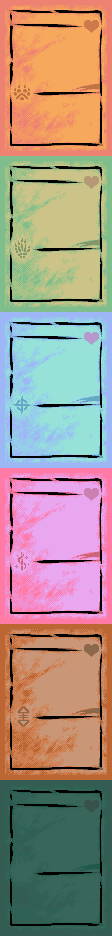
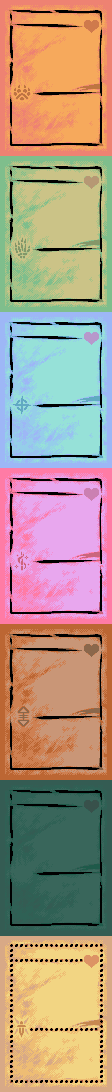
Terrain Part 1

diff --git a/model/costs.py b/model/costs.py
@@ -13,20 +13,42 @@ def get_temple_variant(image, temple):
     bottom = (version_index + 1) * version_height
     return image.crop((0, top, width, bottom))
 
-def change_cost_color(image, temple):
+def change_cost_color(image, temple, tier=""):
     if temple not in TEMPLES:
         raise ValueError(f"'{temple}' is not a valid temple.")
     for x in range(image.width):
         for y in range(image.height):
-            current_pixel = image.getpixel((x, y))[:3]
-            if current_pixel == (190, 117, 65):
-                image.putpixel((x, y), config["light_tone"][temple])
-            elif current_pixel == (125, 78, 48):
-                image.putpixel((x, y), config["text_colors"][temple])
-            elif current_pixel == (78, 50, 38):
-                image.putpixel((x, y), config["dark_tone"][temple])
-            elif current_pixel == (64, 42, 33):
-                image.putpixel((x, y), config["darker_tone"][temple])
+            if [temple] == "Terrain":
+                if [tier] == "Rare" or [tier] == "Talking":
+                    current_pixel = image.getpixel((x, y))[:3]
+                    if current_pixel == (190, 117, 65):
+                        image.putpixel((x, y), config["light_tone"][temple]["Golden"])
+                    elif current_pixel == (125, 78, 48):
+                        image.putpixel((x, y), config["text_colors"][temple]["Golden"])
+                    elif current_pixel == (78, 50, 38):
+                        image.putpixel((x, y), config["dark_tone"][temple]["Golden"])
+                    elif current_pixel == (64, 42, 33):
+                        image.putpixel((x, y), config["darker_tone"][temple]["Golden"])
+                else:
+                    current_pixel = image.getpixel((x, y))[:3]
+                    if current_pixel == (190, 117, 65):
+                        image.putpixel((x, y), config["light_tone"][temple]["Normal"])
+                    elif current_pixel == (125, 78, 48):
+                        image.putpixel((x, y), config["text_colors"][temple]["Normal"])
+                    elif current_pixel == (78, 50, 38):
+                        image.putpixel((x, y), config["dark_tone"][temple]["Normal"])
+                    elif current_pixel == (64, 42, 33):
+                        image.putpixel((x, y), config["darker_tone"][temple]["Normal"])
+            else:
+                current_pixel = image.getpixel((x, y))[:3]
+                if current_pixel == (190, 117, 65):
+                    image.putpixel((x, y), config["light_tone"][temple])
+                elif current_pixel == (125, 78, 48):
+                    image.putpixel((x, y), config["text_colors"][temple])
+                elif current_pixel == (78, 50, 38):
+                    image.putpixel((x, y), config["dark_tone"][temple])
+                elif current_pixel == (64, 42, 33):
+                    image.putpixel((x, y), config["darker_tone"][temple])
     return image
 
 class Blood:
